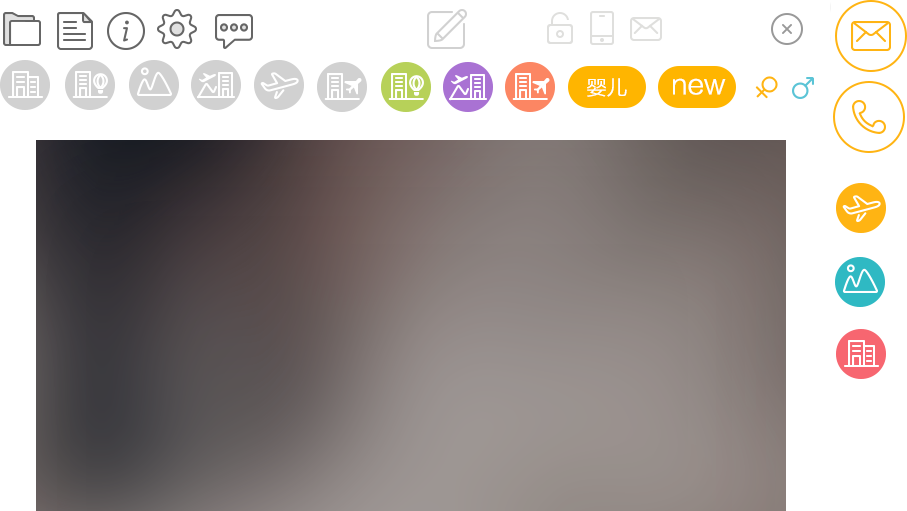
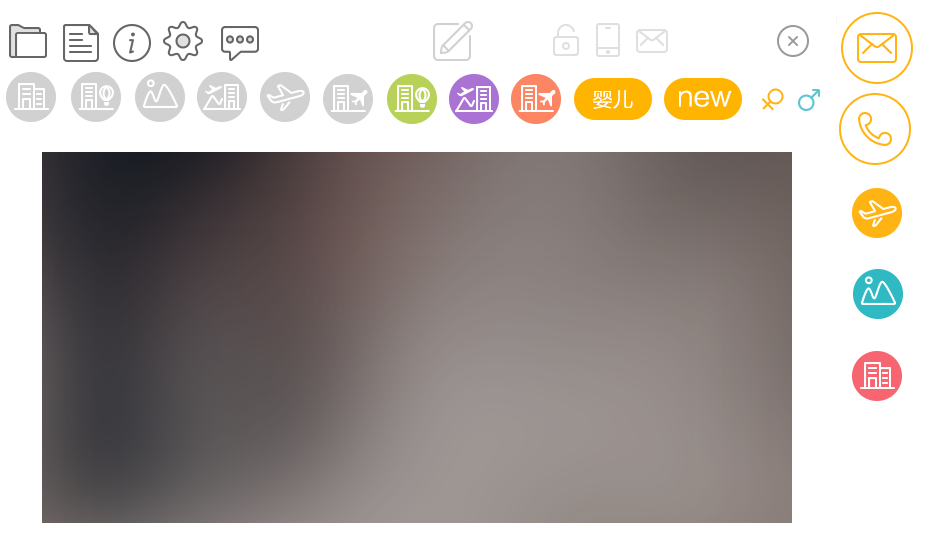
所有订单 图标调整

Changed region(s): [[0.0, 0.0, 1.0, 0.7632], [0.0309, 0.2642, 0.8644, 1.0]]

diff --git a/assets/css/user.css b/assets/css/user.css
@@ -831,7 +831,7 @@ i, em {
   display: inline-block;
   width: .5rem;
   height: .5rem;
-  margin: .13rem .2rem 0 0;
+  margin: .12rem .2rem 0 0;
 }
 
 .all_order_tab {
@@ -900,15 +900,15 @@ i, em {
 }
 
 .user_hotel1 {
-  background-position: -7.34rem -2.94rem;
+  background-position: -7.2rem -2.9rem;
 }
 
 .user_hotel2 {
-  background-position: .04rem -.52rem;
+  background-position: 0 -.56rem;
 }
 
 .user_air {
-  background-position: -7.34rem -1.62rem;
+  background-position: -7.2rem -1.52rem;
 }
 
 .user_spot {
@@ -916,15 +916,15 @@ i, em {
 }
 
 .user_hoteltour {
-  background-position: -3.32rem -.54rem;
+  background-position: -3.27rem -.58rem;
 }
 
 .user_fligthotle {
-  background-position: -4.42rem -.54rem;
+  background-position: -4.3rem -.58rem;
 }
 
 .user_fligthotletour {
-  background-position: -3.88rem -.54rem;
+  background-position: -3.78rem -.58rem;
 }
 
 /*全部订单页结束*/
